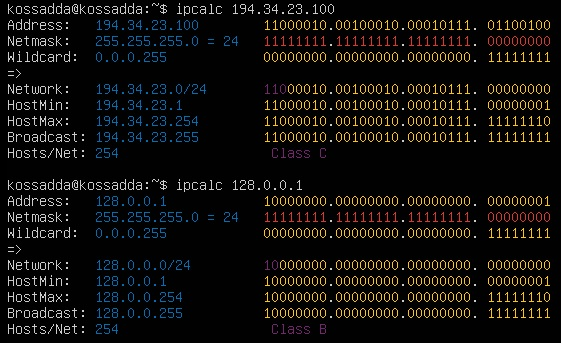
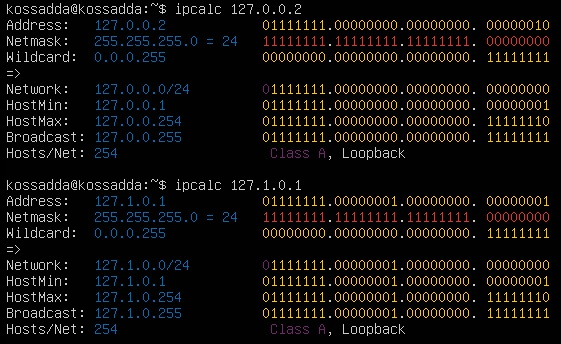
4

diff --git a/src/report.md b/src/report.md
@@ -7,9 +7,13 @@
 
 1. [Part 1. Инструмент ipcalc](#part-1-инструмент-ipcalc) <br>
    1.1. [Сети и маски](#11-сети-и-маски) <br>
-         1.1.1. [Определение адреса сети](#111-определение-адреса-сети-192167385413) <br>
-         1.1.2. [Перевод масок](#112-перевод-маски-2552552550-в-префиксную-и-двоичную-запись-15-в-обычную-и-двоичную-11111111111111111111111111110000-в-обычную-и-префиксную) <br>
+      1.1.1. [Определение адреса сети](#111-определение-адреса-сети-192167385413) <br>
+      1.1.2. [Перевод масок](#112-перевод-маски-2552552550-в-префиксную-и-двоичную-запись-15-в-обычную-и-двоичную-11111111111111111111111111110000-в-обычную-и-префиксную) <br>
+      1.1.3. [Определение минимального и максимального хоста](#113-определить-минимальный-и-максимальный-хост-в-сети-12167384-при-масках-8-11111111111111110000000000000000-2552552540-и-4) <br>
    1.2. [localhost](#12-localhost) <br>
+   1.3. [Диапазоны и сегменты сетей](#13-диапазоны-и-сегменты-сетей) <br>
+      1.3.1. [Определение частных и публичных IP](#131-определить-какие-из-перечисленных-ip-можно-использовать-в-качестве-публичного-а-какие-только-в-качестве-частных-100045-1344302-19216842-172202504-172021-19217201-1726802-17216255255-10101010-1921691681) <br>
+      1.3.2. [Определение возможных IP адресов шлюза](#132-определить-какие-из-перечисленных-ip-адресов-шлюза-возможны-у-сети-10100018-10001-101002-10101010-10101001-10101255) <br>
 
 ## Part 1. Инструмент ipcalc
 - Установка утилиты ipcalc <br>
@@ -44,9 +48,79 @@
 **Префиксная запись:** 255.255.255.240 <br>
 **Двоичная запись:** 11111111.11111110.00000000.00000000
 
+### 1.1.3. Определить минимальный и максимальный хост в сети 12.167.38.4 при масках: /8, 11111111.11111111.00000000.00000000, 255.255.254.0 и /4.
+
+- Минимальный и максимальный хост в сети 12.167.38.4 (при маске /8) <br>
+`ipcalc 12.167.38.4/8` <br>
+<img src="../misc/images/6.jpg" alt="6" />
+
+**Минимальный хост:**  12.0.0.1 <br>
+**Максимальный хост:** 12.255.255.254
+
+- Минимальный и максимальный хост в сети 12.167.38.4 (при маске 11111111.11111111.00000000.00000000) <br>
+`ipcalc 12.167.38.4/16` <br>
+<img src="../misc/images/7.jpg" alt="7" />
+
+**Минимальный хост:**  12.167.0.1 <br>
+**Максимальный хост:** 12.167.255.254
+
+- Минимальный и максимальный хост в сети 12.167.38.4 (при маске 255.255.254.0) <br>
+`ipcalc 12.167.38.4/23` <br>
+<img src="../misc/images/8.jpg" alt="8" />
+
+**Минимальный хост:**  12.167.38.1 <br>
+**Максимальный хост:** 12.167.39.254
+
+- Минимальный и максимальный хост в сети 12.167.38.4 (при маске /4) <br>
+`ipcalc 12.167.38.4/4` <br>
+<img src="../misc/images/9.jpg" alt="9" />
+
+**Минимальный хост:**  12.167.38.1 <br>
+**Максимальный хост:** 12.167.39.254
+
 ## 1.2. localhost
 **Определить и записать в отчёт, можно ли обратиться к приложению, работающему на localhost, со следующими IP: 194.34.23.100, 127.0.0.2, 127.1.0.1, 128.0.0.1** <br>
 
-> *** Информация: *** <br> Адреса 127.0.0.0 до 127.255.255.255  также известные как адреса петли обратной связи (loopback addresses), представляют собой специальный диапазон IP-адресов, предназначенных для локального обмена данными в пределах компьютера (localhost). Этот диапазон адресов не маршрутизируется через сеть и используется для обеспечения сетевой изоляции и локальной отладки приложений и сервисов на компьютере.
-Адреса петли обратной связи полезны для тестирования и разработки на локальной машине, так как они позволяют приложениям и сервисам общаться между собой без необходимости.
+> Адреса 127.0.0.0 до 127.255.255.255  также известные как адреса петли обратной связи (loopback addresses), представляют собой специальный диапазон IP-адресов, предназначенных для локального обмена данными в пределах компьютера (localhost). Этот диапазон адресов не маршрутизируется через сеть и используется для обеспечения сетевой изоляции и локальной отладки приложений и сервисов на компьютере.
+Адреса петли обратной связи полезны для тестирования и разработки на локальной машине, так как они позволяют приложениям и сервисам общаться между собой без необходимости подключения к внешней сети
+194.34.23.100 – нет доступа
+127.0.0.2 – имеется доступ
+127.1.0.1 – имеется доступ
+128.0.0.1 – нет доступа
 
+`ipcalc 127.0.0.2` <br>
+`ipcalc 127.1.0.1` <br>
+<img src="../misc/images/10.jpg" alt="10" />
+
+**В пункте Hosts/Net присутствует пометка Loopback.**
+
+`ipcalc 194.34.23.100` <br>
+`ipcalc 128.0.0.1` <br>
+<img src="../misc/images/11.jpg" alt="11" />
+
+**В пункте Hosts/Net отсутствует пометка Loopback.** <br>
+*Данные адреса не принадлежат диапазону зарезервированных адресов для локального использования. Следовательно, обращения к приложению на localhost с этими IP-адресами не будут работать.*
+
+## 1.3. Диапазоны и сегменты сетей
+
+### 1.3.1. Определить какие из перечисленных IP можно использовать в качестве публичного, а какие только в качестве частных: 10.0.0.45, 134.43.0.2, 192.168.4.2, 172.20.250.4, 172.0.2.1, 192.172.0.1, 172.68.0.2, 172.16.255.255, 10.10.10.10, 192.169.168.1
+
+- Частные IP-адреса: <br>
+10.0.0.45/8       - Privat <br>
+192.168.4.2/16    - Privat <br>
+172.20.250.4/12   - Privat <br>
+172.16.255.255/12 - Privat <br>
+10.10.10.10/8     - Privat <br>
+- Публичные IP-адреса: <br>
+134.43.0.2/16     - Public <br>
+172.0.2.1/12      - Public <br>
+192.172.0.1/12    - Public <br>
+172.68.0.2/12     - Public <br>
+192.169.168.1/16  - Public <br>
+
+### 1.3.2. Определить какие из перечисленных IP адресов шлюза возможны у сети 10.10.0.0/18: 10.0.0.1, 10.10.0.2, 10.10.10.10, 10.10.100.1, 10.10.1.255
+
+`ipcalc 10.10.0.0/18` <br>
+<img src="../misc/images/12.jpg" alt="12" />
+
+Диапазон возможных IP адресов шлюза варьируются от 10.10.0.1 (HostMin) – 10.10.63.254 (HostMax). Следовательно, возможными IP адресами шлюза являются: **10.10.0.2, 10.10.10.10, 10.10.1.255**
